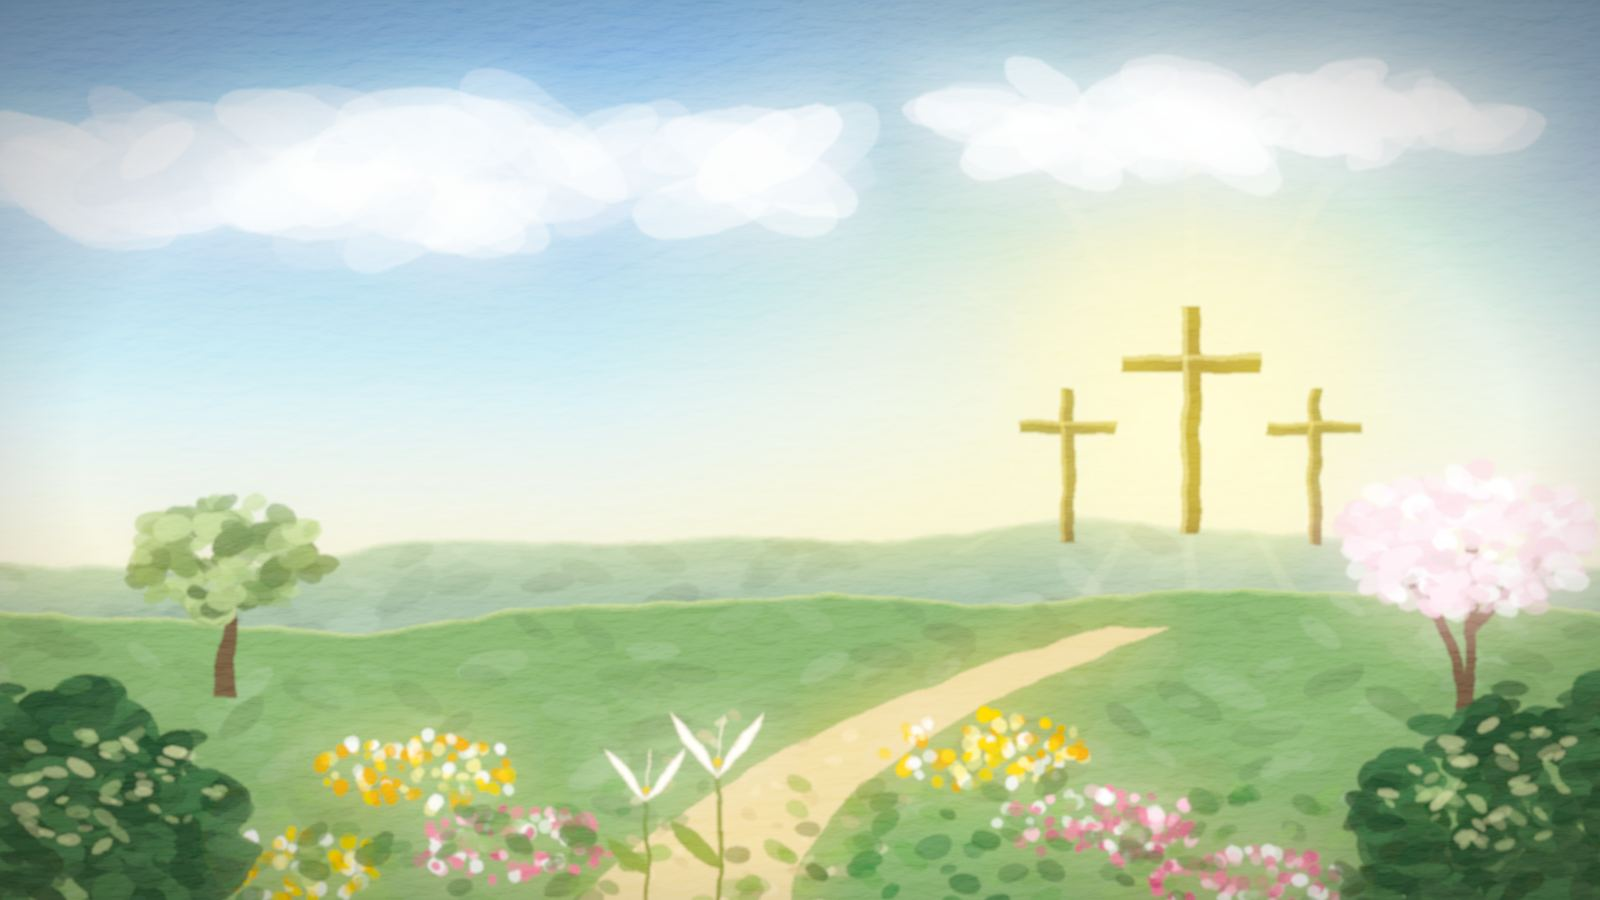
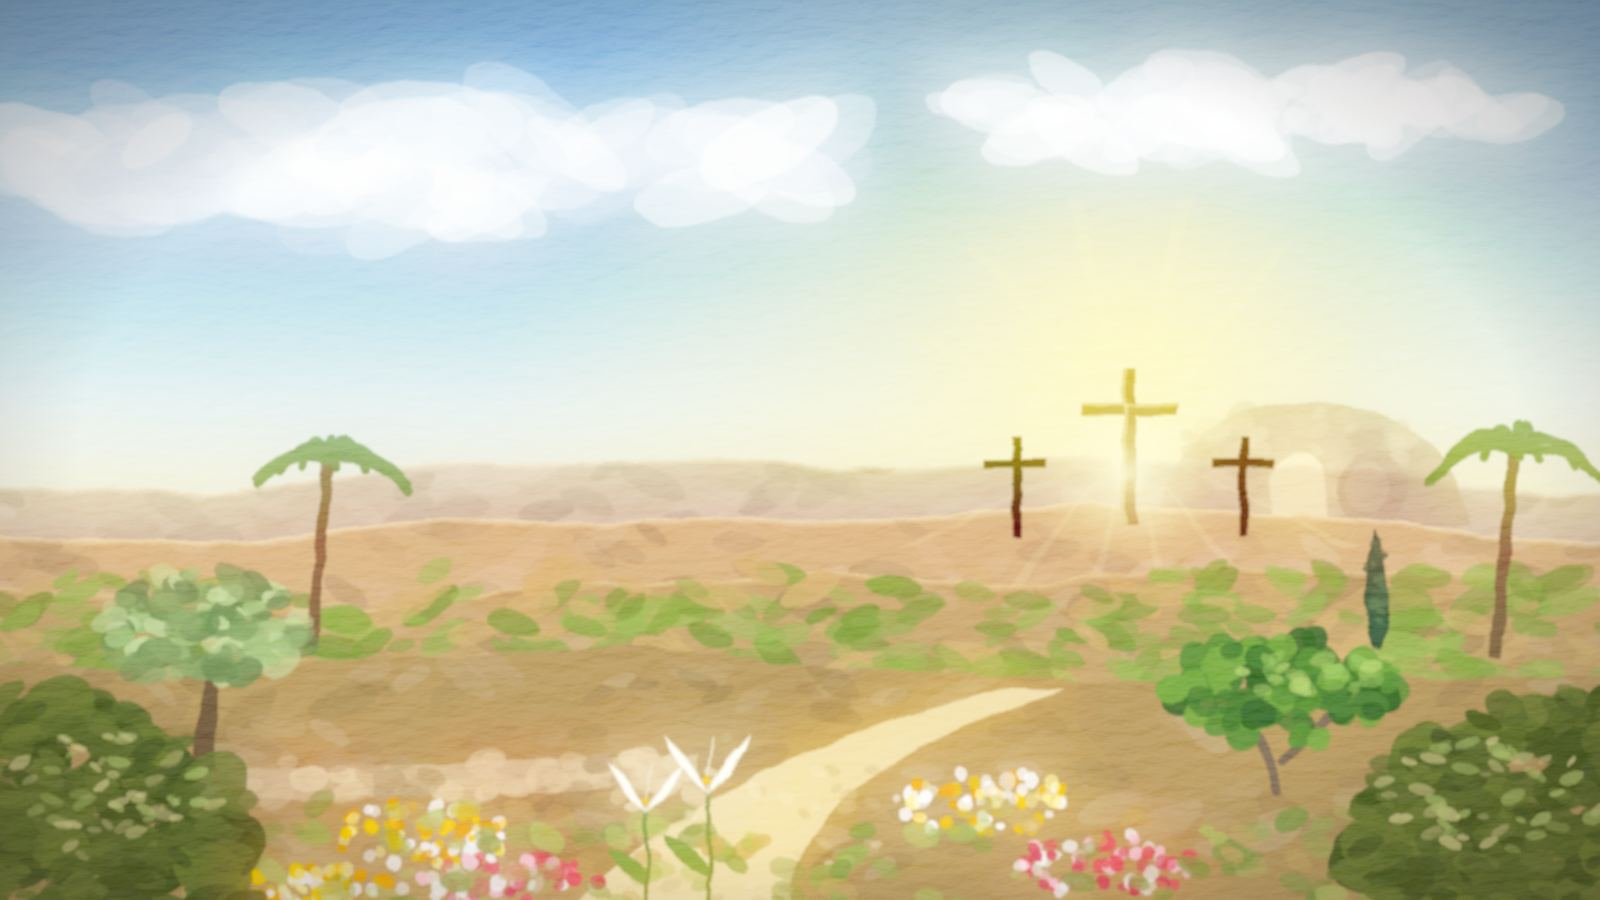
Seasonal round 4: April crosses and tomb on distant desert hills
Claude-Session: https://claude.ai/code/session_01Sqn2qeG7eJCNMRkH2SjbWb

diff --git a/sw.js b/sw.js
@@ -1,5 +1,5 @@
 // Caches the app itself so it opens offline. Scripture text is not cached here.
-const VERSION = "bible-study-shell-v216";
+const VERSION = "bible-study-shell-v217";
 const SHELL = ["./", "index.html", "styles.css", "js/app.js", "js/books.js", "js/store.js", "js/text.js", "js/paths.js", "js/speech.js", "js/trivia.js", "js/trivia-bank.js", "js/trivia-bank2.js", "js/trivia-bank3.js", "js/art.js", "js/storybook.js", "js/notes.js", "js/notes-more.js", "js/chapters/make.js", "js/chapters/deeper-ot.js", "js/chapters/deeper-nt.js", ...["gen", "exo", "lev", "num", "deu", "jos", "jdg", "rut", "1sa", "2sa", "1ki", "2ki", "1ch", "2ch", "ezr", "neh", "est", "job", "psa", "pro", "ecc", "sng", "isa", "jer", "lam", "ezk", "dan", "hos", "jol", "amo", "oba", "jon", "mic", "nam", "hab", "zep", "hag", "mal", "zec", "mrk", "mat", "luk", "jhn", "act", "rom", "1co", "2co", "gal", "eph", "php", "col", "1th", "2th", "1ti", "2ti", "tit", "phm", "heb", "jas", "1pe", "2pe", "1jn", "2jn", "3jn", "jud", "rev"].map((b) => `js/chapters/${b}.js`), "js/history.js", "js/glossary.js", "js/intros.js", "js/topics.js", "js/outlines.js", "js/stickers.js", "js/bookstats.js", "js/daily.js", "js/guide.js", "js/whatsnew.js", "js/buddyguide.js", "js/buddygrow.js", "js/buddy.js", "js/game.js", "js/auth.js", "js/config.js", "js/vendor/supabase.js",
   "manifest.webmanifest", "icons/icon.svg", "icons/icon-180.png", "icons/icon-192.png", "icons/icon-512.png", "icons/icon-maskable-512.png"];
 

diff --git a/STATUS.md b/STATUS.md
@@ -1,8 +1,8 @@
 # Family Bible App: status
 
 <!-- The first two lines below are updated automatically every time a new version is published. -->
-**Last updated:** Wed Nov 25, 2026, 10:34 AM Central
-**Current version:** v216 (live at bible.breakoutroom.net; open apps update on their own)
+**Last updated:** Wed Nov 25, 2026, 10:36 AM Central
+**Current version:** v217 (live at bible.breakoutroom.net; open apps update on their own)
 
 Release target: **Friday, December 4, 2026**, as a Christmas gift. Everything is finished by Thursday, December 3, so release day is free. All times are Central.
 
@@ -10,6 +10,7 @@ This page is updated with every publish and at each daily check-in (9:00 AM, 1:3
 
 ## Since last update
 
+- Wed Nov 25, 10:55 AM: Seasonal round 4 from Melissa: April shows the three crosses on a distant hill (the two beside it small and dark, the middle one shining), the empty tomb faded behind, in Judean desert colors with spring green and flowers.
 - Wed Nov 25, 10:50 AM: Seasonal round 3 from Melissa: New Year is back to the original; Learning has no person, just a half-written scroll with the pen and ink set down; Psalm 23 has green pastures on the sunlit hills fading into a deep navy valley. Games play-test: in family mode the players' names were white on white and couldn't be read (fixed, with a test), long "Jewel question" notes now wrap neatly, and the wheel fits short phones with the turn label showing.
 - Wed Nov 25, 10:35 AM: Seasonal backgrounds round 2, from Melissa's notes: New Year now shows dawn over Jerusalem lit by the temple's golden lampstands and torches (there were no fireworks in Bible times); February is prettier, with almond trees in blossom and red anemones; April has three crosses with the middle one larger and shining; May mixes olive, fig, cypress, almond and pomegranate; the Sea of Galilee town climbs the hill like the old Tiberias painting; Learning shows a scribe writing a scroll, with birds past the window; Psalm 23 has the Good Shepherd leading the flock and more detail; Advent is richer, with the ox, donkey and sheep, and in Lively pictures the star twinkles, the candles flicker and the baby Jesus softly glows (all still when motion is turned down). Handwriting and drawing inside typed notes is approved and planned for Fri Nov 27.
 - Wed Nov 25, 10:45 AM: Play-test of Bible Spin and the Quick check on a small phone and an iPad, in the kids' and Classic looks. Fixed: on short phones (iPhone SE, mini) the fourth answer and the helps were below the edge, and now everything fits. The Quick check now marks answers plainly in every look (green ✓ and red ✗), says the right answer in words (most explanations were only a verse reference), scrolls the Next button into view, starts on the question instead of the Close button, and ends with a "To read again" list of missed questions, each with a tap to read the verse. A solo game with no jewels now ends with "Good try! Every game you learn more." instead of "You won 0 of 7 jewels." All game tests pass.
